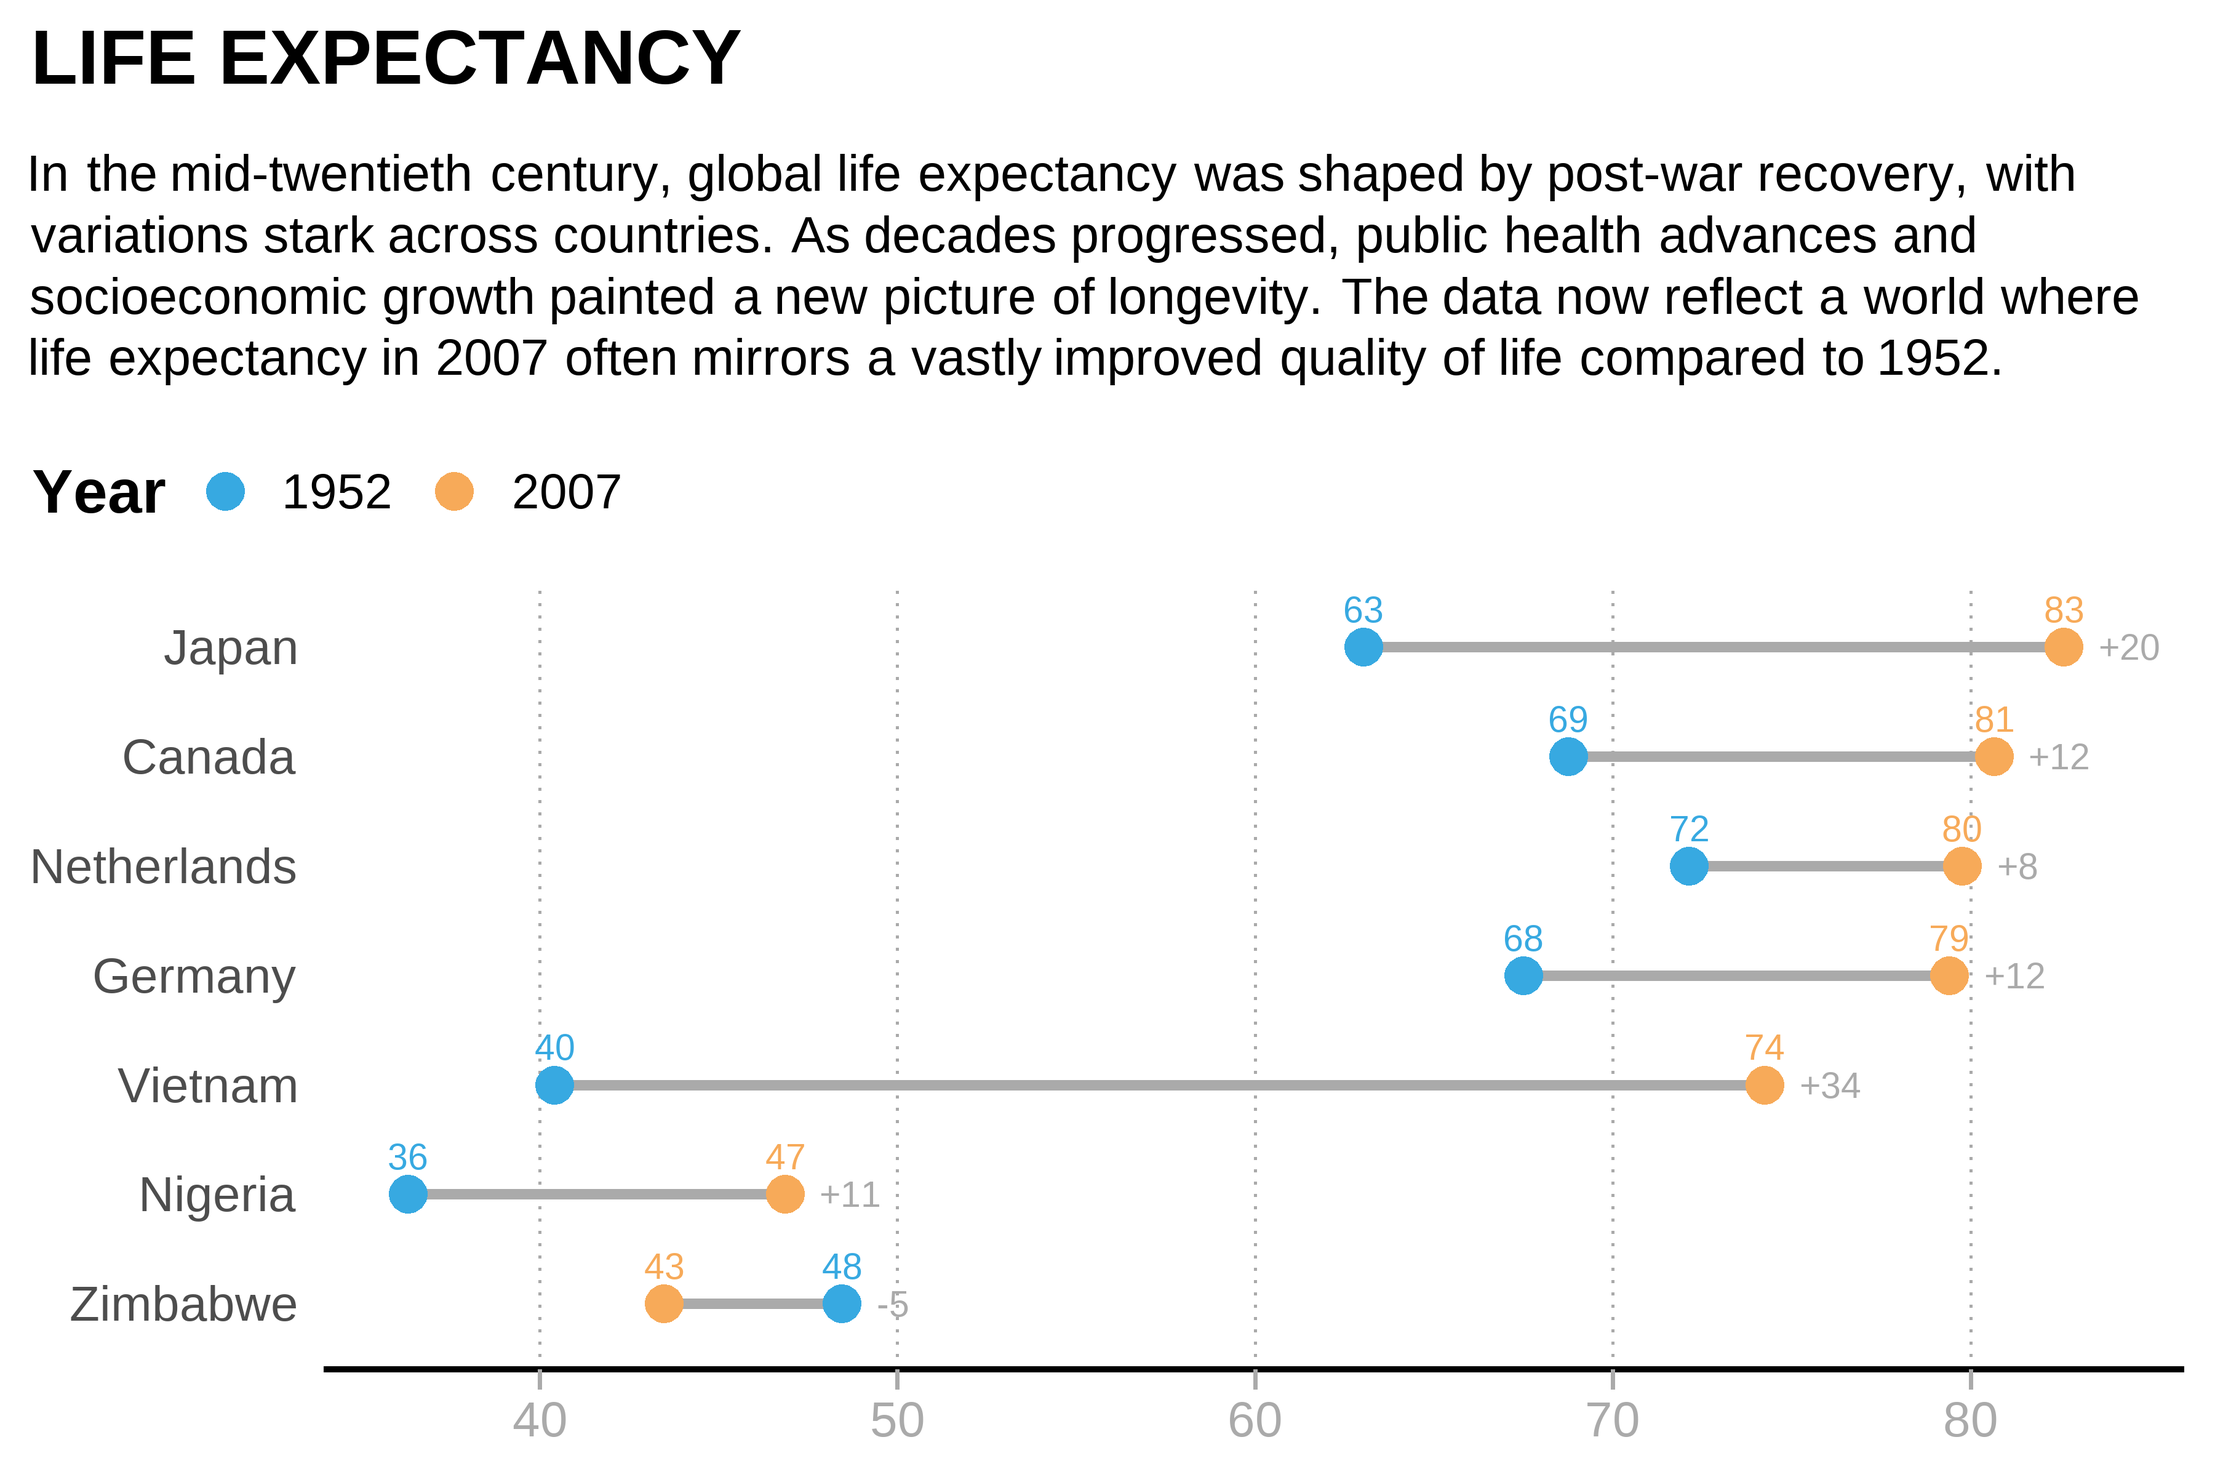
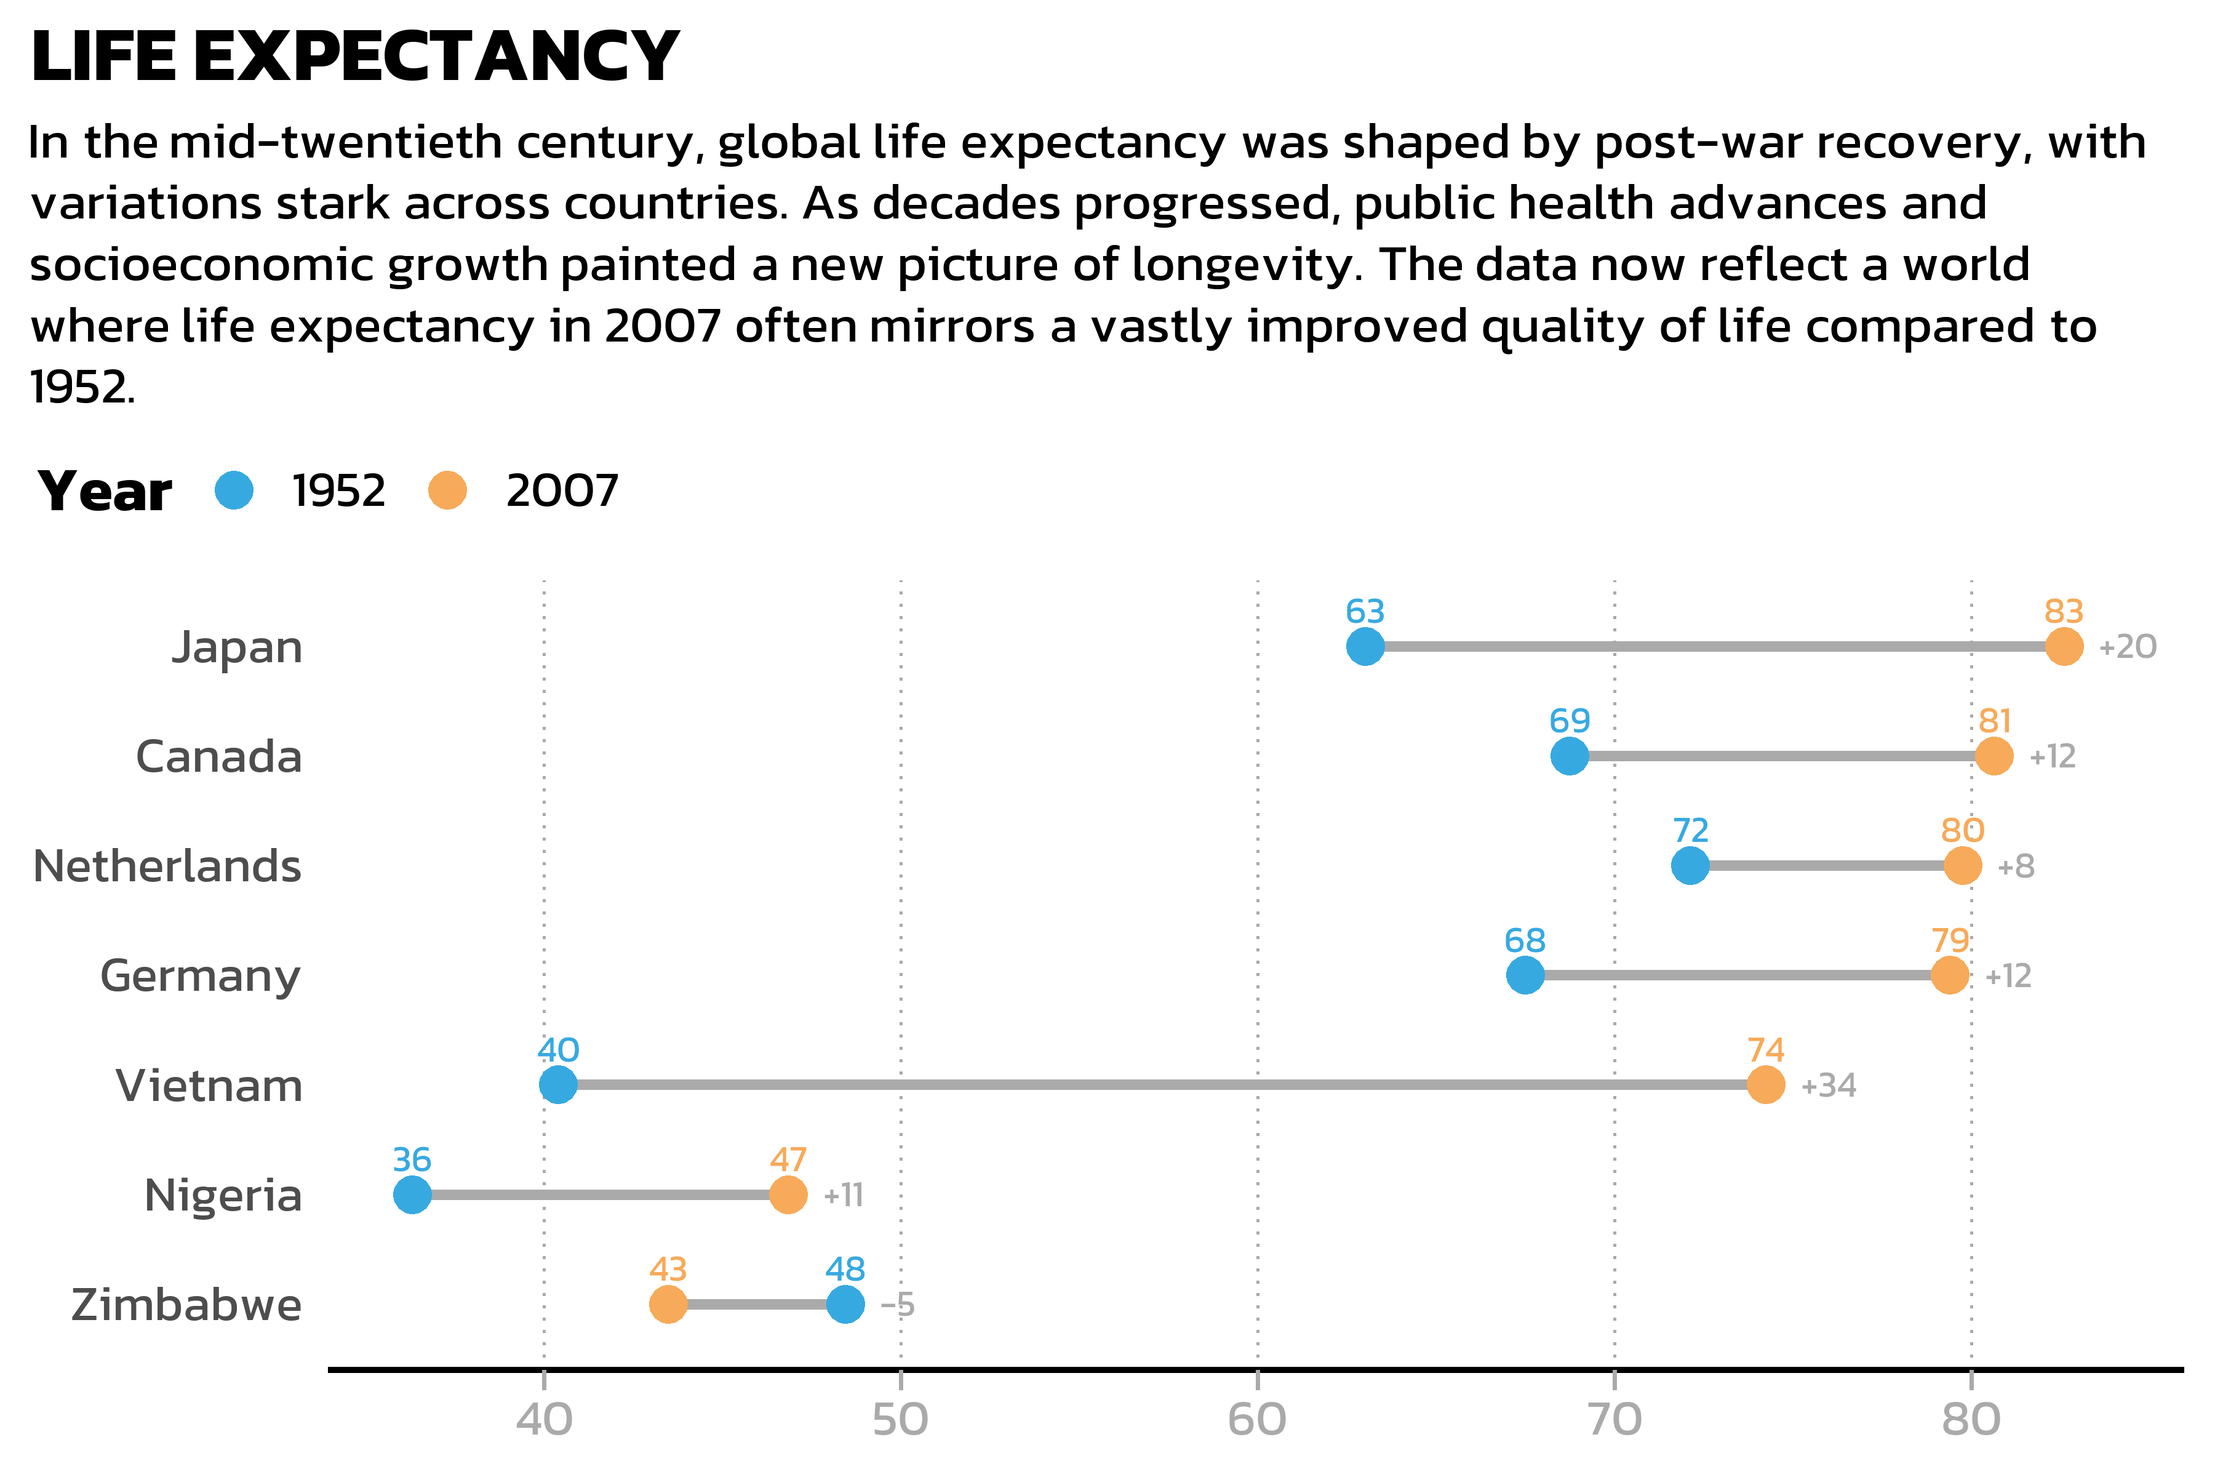
once again the font

diff --git a/docs/index.html b/docs/index.html
@@ -588,26 +588,27 @@ pre > code.sourceCode > span > a:first-child::before { text-decoration: underlin
 <span id="cb24-21"><a href="#cb24-21" aria-hidden="true" tabindex="-1"></a>  ) <span class="sc">+</span></span>
 <span id="cb24-22"><a href="#cb24-22" aria-hidden="true" tabindex="-1"></a>  <span class="fu">theme_minimal</span>(<span class="at">base_size =</span> <span class="dv">12</span>) <span class="sc">+</span></span>
 <span id="cb24-23"><a href="#cb24-23" aria-hidden="true" tabindex="-1"></a>  <span class="fu">theme</span>(</span>
-<span id="cb24-24"><a href="#cb24-24" aria-hidden="true" tabindex="-1"></a>    <span class="at">plot.title.position =</span> <span class="st">"plot"</span>,</span>
-<span id="cb24-25"><a href="#cb24-25" aria-hidden="true" tabindex="-1"></a>    <span class="at">plot.title =</span> <span class="fu">element_text</span>(<span class="at">size =</span> <span class="dv">15</span>, <span class="at">face =</span> <span class="st">"bold"</span>),</span>
-<span id="cb24-26"><a href="#cb24-26" aria-hidden="true" tabindex="-1"></a>    <span class="at">plot.subtitle =</span> ggtext<span class="sc">::</span><span class="fu">element_textbox_simple</span>(<span class="at">size =</span> <span class="dv">10</span>, <span class="at">margin =</span> <span class="fu">margin</span>(<span class="dv">5</span>, <span class="dv">0</span>, <span class="dv">10</span>, <span class="dv">0</span>)),</span>
-<span id="cb24-27"><a href="#cb24-27" aria-hidden="true" tabindex="-1"></a>    <span class="at">axis.line.y =</span> <span class="fu">element_blank</span>(),</span>
-<span id="cb24-28"><a href="#cb24-28" aria-hidden="true" tabindex="-1"></a>    <span class="at">axis.text.x =</span> <span class="fu">element_text</span>(<span class="at">color =</span> <span class="st">"#AAAAAA"</span>),</span>
-<span id="cb24-29"><a href="#cb24-29" aria-hidden="true" tabindex="-1"></a>    <span class="at">axis.ticks.x =</span> <span class="fu">element_line</span>(<span class="at">color =</span> <span class="st">"#AAAAAA"</span>, <span class="at">linewidth =</span> <span class="fl">0.4</span>),</span>
-<span id="cb24-30"><a href="#cb24-30" aria-hidden="true" tabindex="-1"></a>    <span class="at">axis.ticks.length.x =</span> <span class="fu">unit</span>(<span class="dv">4</span>, <span class="st">"pt"</span>),</span>
-<span id="cb24-31"><a href="#cb24-31" aria-hidden="true" tabindex="-1"></a>    <span class="at">axis.line.x =</span> <span class="fu">element_line</span>(<span class="at">color =</span> <span class="st">"black"</span>, <span class="at">linewidth =</span> <span class="fl">0.6</span>),</span>
-<span id="cb24-32"><a href="#cb24-32" aria-hidden="true" tabindex="-1"></a>    <span class="at">legend.position =</span> <span class="st">"top"</span>,</span>
-<span id="cb24-33"><a href="#cb24-33" aria-hidden="true" tabindex="-1"></a>    <span class="at">legend.box.just =</span> <span class="st">"left"</span>,</span>
-<span id="cb24-34"><a href="#cb24-34" aria-hidden="true" tabindex="-1"></a>    <span class="at">legend.justification =</span> <span class="st">"left"</span>,</span>
-<span id="cb24-35"><a href="#cb24-35" aria-hidden="true" tabindex="-1"></a>    <span class="at">legend.margin =</span> <span class="fu">margin</span>(<span class="dv">5</span>, <span class="dv">0</span>, <span class="dv">0</span>, <span class="sc">-</span><span class="dv">57</span>, <span class="at">unit =</span> <span class="st">"pt"</span>),</span>
-<span id="cb24-36"><a href="#cb24-36" aria-hidden="true" tabindex="-1"></a>    <span class="at">legend.title =</span> <span class="fu">element_text</span>(<span class="at">face =</span> <span class="st">"bold"</span>),</span>
-<span id="cb24-37"><a href="#cb24-37" aria-hidden="true" tabindex="-1"></a>    <span class="at">legend.key.size =</span> <span class="fu">unit</span>(<span class="fl">0.4</span>, <span class="st">"cm"</span>),</span>
-<span id="cb24-38"><a href="#cb24-38" aria-hidden="true" tabindex="-1"></a>    <span class="at">panel.grid.minor =</span> <span class="fu">element_blank</span>(),</span>
-<span id="cb24-39"><a href="#cb24-39" aria-hidden="true" tabindex="-1"></a>    <span class="at">panel.grid.major.y =</span> <span class="fu">element_blank</span>(),</span>
-<span id="cb24-40"><a href="#cb24-40" aria-hidden="true" tabindex="-1"></a>    <span class="at">panel.grid.major.x =</span> <span class="fu">element_line</span>(<span class="at">linetype =</span> <span class="st">"dotted"</span>, <span class="at">color =</span> <span class="st">"#AAAAAA"</span>, <span class="at">linewidth =</span> <span class="fl">0.3</span>)</span>
-<span id="cb24-41"><a href="#cb24-41" aria-hidden="true" tabindex="-1"></a>  )</span>
-<span id="cb24-42"><a href="#cb24-42" aria-hidden="true" tabindex="-1"></a></span>
-<span id="cb24-43"><a href="#cb24-43" aria-hidden="true" tabindex="-1"></a>p2</span></code><button title="Copy to Clipboard" class="code-copy-button"><i class="bi"></i></button></pre></div>
+<span id="cb24-24"><a href="#cb24-24" aria-hidden="true" tabindex="-1"></a>    <span class="at">text =</span> <span class="fu">element_text</span>(<span class="at">family =</span> <span class="st">"kanit"</span>),</span>
+<span id="cb24-25"><a href="#cb24-25" aria-hidden="true" tabindex="-1"></a>    <span class="at">plot.title.position =</span> <span class="st">"plot"</span>,</span>
+<span id="cb24-26"><a href="#cb24-26" aria-hidden="true" tabindex="-1"></a>    <span class="at">plot.title =</span> <span class="fu">element_text</span>(<span class="at">size =</span> <span class="dv">15</span>, <span class="at">face =</span> <span class="st">"bold"</span>),</span>
+<span id="cb24-27"><a href="#cb24-27" aria-hidden="true" tabindex="-1"></a>    <span class="at">plot.subtitle =</span> ggtext<span class="sc">::</span><span class="fu">element_textbox_simple</span>(<span class="at">size =</span> <span class="dv">10</span>, <span class="at">margin =</span> <span class="fu">margin</span>(<span class="dv">5</span>, <span class="dv">0</span>, <span class="dv">10</span>, <span class="dv">0</span>)),</span>
+<span id="cb24-28"><a href="#cb24-28" aria-hidden="true" tabindex="-1"></a>    <span class="at">axis.line.y =</span> <span class="fu">element_blank</span>(),</span>
+<span id="cb24-29"><a href="#cb24-29" aria-hidden="true" tabindex="-1"></a>    <span class="at">axis.text.x =</span> <span class="fu">element_text</span>(<span class="at">color =</span> <span class="st">"#AAAAAA"</span>),</span>
+<span id="cb24-30"><a href="#cb24-30" aria-hidden="true" tabindex="-1"></a>    <span class="at">axis.ticks.x =</span> <span class="fu">element_line</span>(<span class="at">color =</span> <span class="st">"#AAAAAA"</span>, <span class="at">linewidth =</span> <span class="fl">0.4</span>),</span>
+<span id="cb24-31"><a href="#cb24-31" aria-hidden="true" tabindex="-1"></a>    <span class="at">axis.ticks.length.x =</span> <span class="fu">unit</span>(<span class="dv">4</span>, <span class="st">"pt"</span>),</span>
+<span id="cb24-32"><a href="#cb24-32" aria-hidden="true" tabindex="-1"></a>    <span class="at">axis.line.x =</span> <span class="fu">element_line</span>(<span class="at">color =</span> <span class="st">"black"</span>, <span class="at">linewidth =</span> <span class="fl">0.6</span>),</span>
+<span id="cb24-33"><a href="#cb24-33" aria-hidden="true" tabindex="-1"></a>    <span class="at">legend.position =</span> <span class="st">"top"</span>,</span>
+<span id="cb24-34"><a href="#cb24-34" aria-hidden="true" tabindex="-1"></a>    <span class="at">legend.box.just =</span> <span class="st">"left"</span>,</span>
+<span id="cb24-35"><a href="#cb24-35" aria-hidden="true" tabindex="-1"></a>    <span class="at">legend.justification =</span> <span class="st">"left"</span>,</span>
+<span id="cb24-36"><a href="#cb24-36" aria-hidden="true" tabindex="-1"></a>    <span class="at">legend.margin =</span> <span class="fu">margin</span>(<span class="dv">5</span>, <span class="dv">0</span>, <span class="dv">0</span>, <span class="sc">-</span><span class="dv">57</span>, <span class="at">unit =</span> <span class="st">"pt"</span>),</span>
+<span id="cb24-37"><a href="#cb24-37" aria-hidden="true" tabindex="-1"></a>    <span class="at">legend.title =</span> <span class="fu">element_text</span>(<span class="at">face =</span> <span class="st">"bold"</span>),</span>
+<span id="cb24-38"><a href="#cb24-38" aria-hidden="true" tabindex="-1"></a>    <span class="at">legend.key.size =</span> <span class="fu">unit</span>(<span class="fl">0.4</span>, <span class="st">"cm"</span>),</span>
+<span id="cb24-39"><a href="#cb24-39" aria-hidden="true" tabindex="-1"></a>    <span class="at">panel.grid.minor =</span> <span class="fu">element_blank</span>(),</span>
+<span id="cb24-40"><a href="#cb24-40" aria-hidden="true" tabindex="-1"></a>    <span class="at">panel.grid.major.y =</span> <span class="fu">element_blank</span>(),</span>
+<span id="cb24-41"><a href="#cb24-41" aria-hidden="true" tabindex="-1"></a>    <span class="at">panel.grid.major.x =</span> <span class="fu">element_line</span>(<span class="at">linetype =</span> <span class="st">"dotted"</span>, <span class="at">color =</span> <span class="st">"#AAAAAA"</span>, <span class="at">linewidth =</span> <span class="fl">0.3</span>)</span>
+<span id="cb24-42"><a href="#cb24-42" aria-hidden="true" tabindex="-1"></a>  )</span>
+<span id="cb24-43"><a href="#cb24-43" aria-hidden="true" tabindex="-1"></a></span>
+<span id="cb24-44"><a href="#cb24-44" aria-hidden="true" tabindex="-1"></a>p2</span></code><button title="Copy to Clipboard" class="code-copy-button"><i class="bi"></i></button></pre></div>
 <div class="cell-output-display">
 <p><img src="index_files/figure-html/unnamed-chunk-22-1.png" class="img-fluid" width="1800"></p>
 </div>
@@ -639,19 +640,21 @@ pre > code.sourceCode > span > a:first-child::before { text-decoration: underlin
 <span id="cb26-9"><a href="#cb26-9" aria-hidden="true" tabindex="-1"></a>  <span class="fu">geom_text</span>(</span>
 <span id="cb26-10"><a href="#cb26-10" aria-hidden="true" tabindex="-1"></a>    <span class="at">mapping =</span> <span class="fu">aes</span>(<span class="at">label =</span> <span class="fu">round</span>(lifeExp)),</span>
 <span id="cb26-11"><a href="#cb26-11" aria-hidden="true" tabindex="-1"></a>    <span class="at">size =</span> <span class="fl">2.5</span>,</span>
-<span id="cb26-12"><a href="#cb26-12" aria-hidden="true" tabindex="-1"></a>    <span class="at">vjust =</span> <span class="sc">-</span><span class="dv">1</span></span>
-<span id="cb26-13"><a href="#cb26-13" aria-hidden="true" tabindex="-1"></a>  ) <span class="sc">+</span></span>
-<span id="cb26-14"><a href="#cb26-14" aria-hidden="true" tabindex="-1"></a>  <span class="fu">geom_text</span>(</span>
-<span id="cb26-15"><a href="#cb26-15" aria-hidden="true" tabindex="-1"></a>    <span class="at">data =</span> dat_wide,</span>
-<span id="cb26-16"><a href="#cb26-16" aria-hidden="true" tabindex="-1"></a>    <span class="at">inherit.aes =</span> <span class="cn">FALSE</span>,</span>
-<span id="cb26-17"><a href="#cb26-17" aria-hidden="true" tabindex="-1"></a>    <span class="at">mapping =</span> <span class="fu">aes</span>(<span class="at">y =</span> country, <span class="at">x =</span> max_x, <span class="at">label =</span> diff_chr),</span>
-<span id="cb26-18"><a href="#cb26-18" aria-hidden="true" tabindex="-1"></a>    <span class="at">size =</span> <span class="fl">2.5</span>,</span>
-<span id="cb26-19"><a href="#cb26-19" aria-hidden="true" tabindex="-1"></a>    <span class="at">hjust =</span> <span class="dv">0</span>,</span>
-<span id="cb26-20"><a href="#cb26-20" aria-hidden="true" tabindex="-1"></a>    <span class="at">color =</span> <span class="st">"#AAAAAA"</span>,</span>
-<span id="cb26-21"><a href="#cb26-21" aria-hidden="true" tabindex="-1"></a>    <span class="at">position =</span> <span class="fu">position_nudge</span>(<span class="at">x =</span> <span class="dv">1</span>)</span>
-<span id="cb26-22"><a href="#cb26-22" aria-hidden="true" tabindex="-1"></a>  )</span>
-<span id="cb26-23"><a href="#cb26-23" aria-hidden="true" tabindex="-1"></a></span>
-<span id="cb26-24"><a href="#cb26-24" aria-hidden="true" tabindex="-1"></a>p2</span></code><button title="Copy to Clipboard" class="code-copy-button"><i class="bi"></i></button></pre></div>
+<span id="cb26-12"><a href="#cb26-12" aria-hidden="true" tabindex="-1"></a>    <span class="at">vjust =</span> <span class="sc">-</span><span class="dv">1</span>,</span>
+<span id="cb26-13"><a href="#cb26-13" aria-hidden="true" tabindex="-1"></a>    <span class="at">family =</span> <span class="st">"kanit"</span></span>
+<span id="cb26-14"><a href="#cb26-14" aria-hidden="true" tabindex="-1"></a>  ) <span class="sc">+</span></span>
+<span id="cb26-15"><a href="#cb26-15" aria-hidden="true" tabindex="-1"></a>  <span class="fu">geom_text</span>(</span>
+<span id="cb26-16"><a href="#cb26-16" aria-hidden="true" tabindex="-1"></a>    <span class="at">data =</span> dat_wide,</span>
+<span id="cb26-17"><a href="#cb26-17" aria-hidden="true" tabindex="-1"></a>    <span class="at">inherit.aes =</span> <span class="cn">FALSE</span>,</span>
+<span id="cb26-18"><a href="#cb26-18" aria-hidden="true" tabindex="-1"></a>    <span class="at">mapping =</span> <span class="fu">aes</span>(<span class="at">y =</span> country, <span class="at">x =</span> max_x, <span class="at">label =</span> diff_chr),</span>
+<span id="cb26-19"><a href="#cb26-19" aria-hidden="true" tabindex="-1"></a>    <span class="at">size =</span> <span class="fl">2.5</span>,</span>
+<span id="cb26-20"><a href="#cb26-20" aria-hidden="true" tabindex="-1"></a>    <span class="at">hjust =</span> <span class="dv">0</span>,</span>
+<span id="cb26-21"><a href="#cb26-21" aria-hidden="true" tabindex="-1"></a>    <span class="at">color =</span> <span class="st">"#AAAAAA"</span>,</span>
+<span id="cb26-22"><a href="#cb26-22" aria-hidden="true" tabindex="-1"></a>    <span class="at">position =</span> <span class="fu">position_nudge</span>(<span class="at">x =</span> <span class="dv">1</span>),</span>
+<span id="cb26-23"><a href="#cb26-23" aria-hidden="true" tabindex="-1"></a>    <span class="at">family =</span> <span class="st">"kanit"</span></span>
+<span id="cb26-24"><a href="#cb26-24" aria-hidden="true" tabindex="-1"></a>  )</span>
+<span id="cb26-25"><a href="#cb26-25" aria-hidden="true" tabindex="-1"></a></span>
+<span id="cb26-26"><a href="#cb26-26" aria-hidden="true" tabindex="-1"></a>p2</span></code><button title="Copy to Clipboard" class="code-copy-button"><i class="bi"></i></button></pre></div>
 <div class="cell-output-display">
 <p><img src="index_files/figure-html/unnamed-chunk-24-1.png" class="img-fluid" width="1800"></p>
 </div>
@@ -659,6 +662,7 @@ pre > code.sourceCode > span > a:first-child::before { text-decoration: underlin
 <p>TODO</p>
 <ul>
 <li>discuss advantage</li>
+<li>remove legend and have colored text in subtitle instead</li>
 </ul>
 </section>
 </section>
